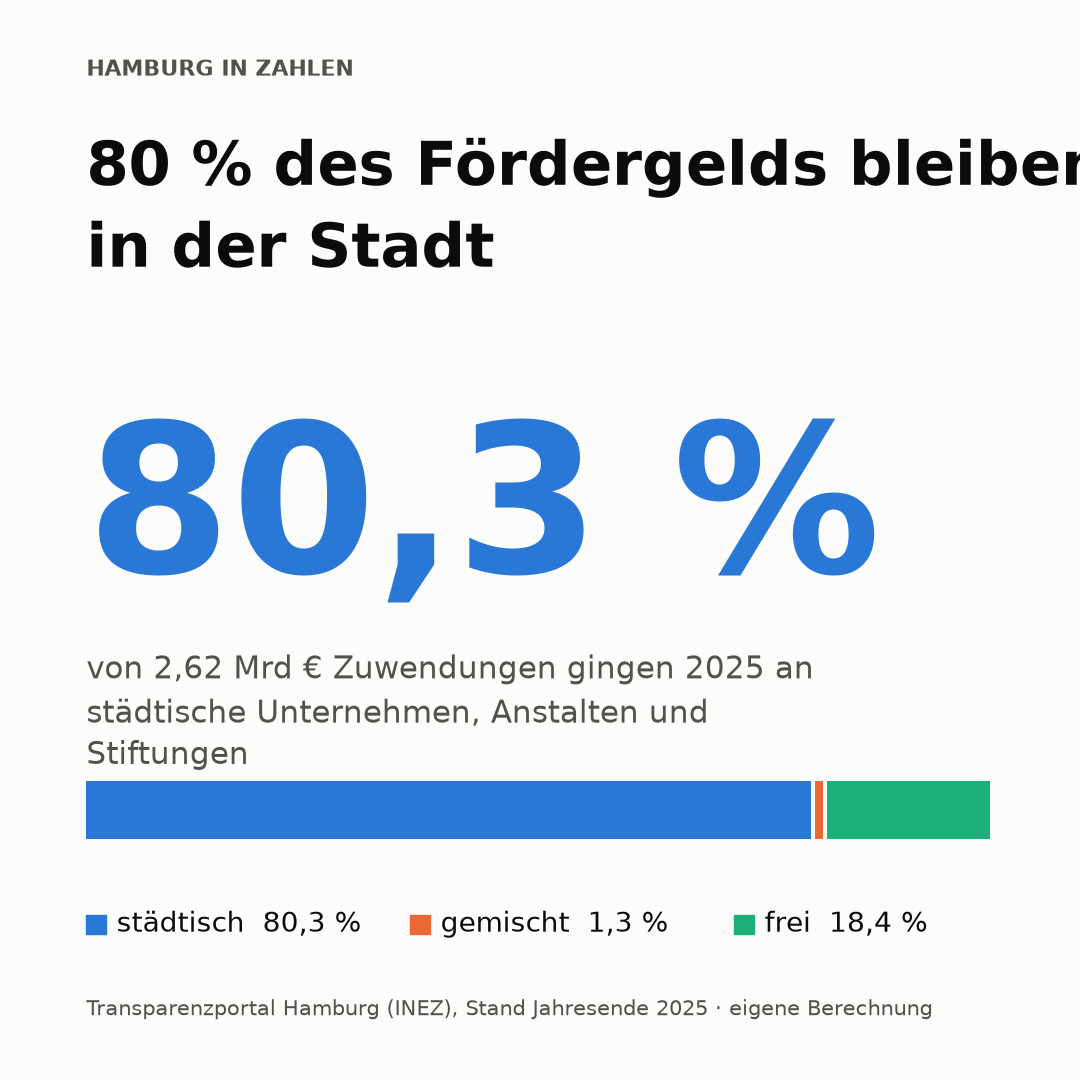
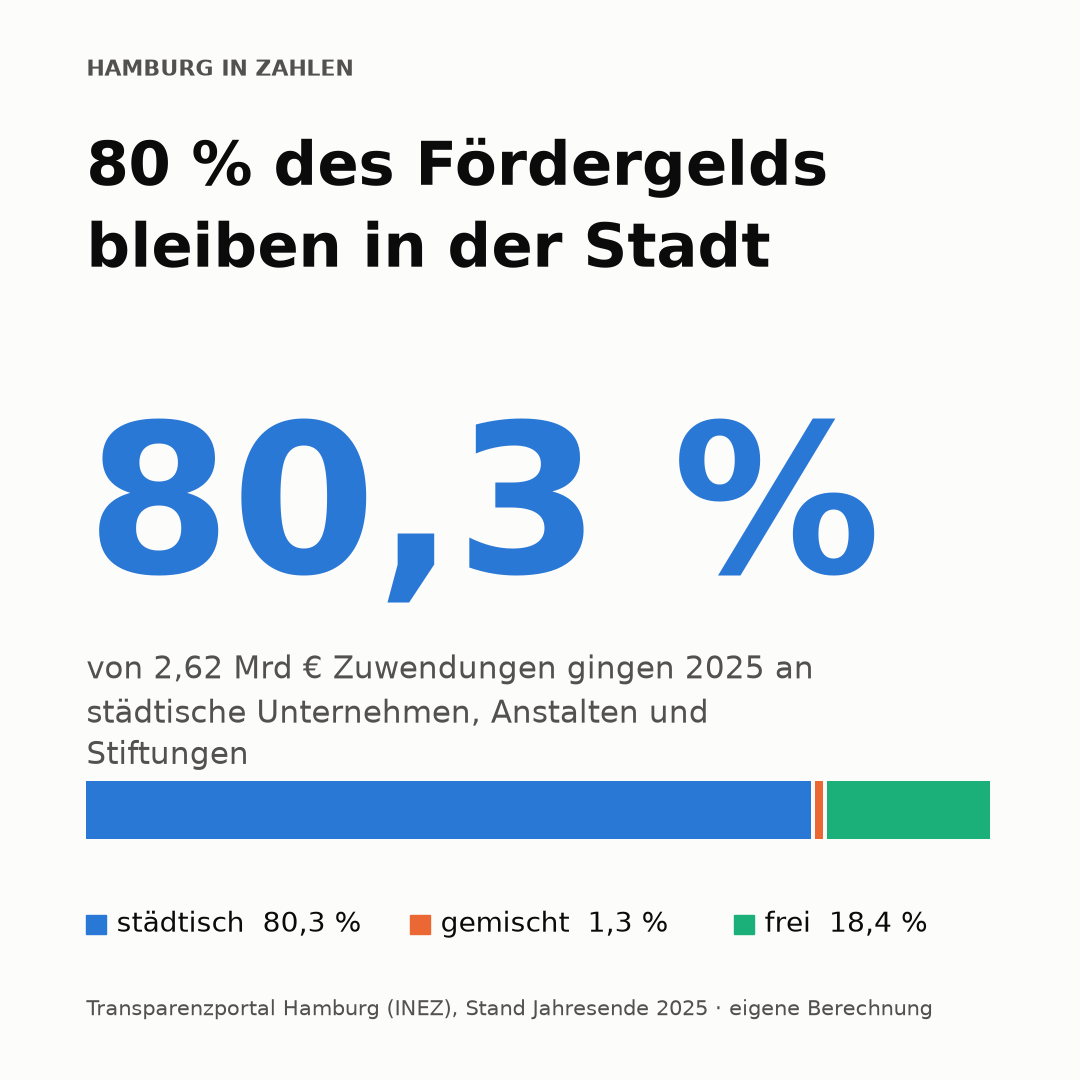
Kachel

Changed region(s): [[0.0917, 0.1833, 0.7333, 0.2444], [0.7944, 0.1222, 1.0, 0.1833]]

diff --git a/src/hamburg_in_zahlen/render.py b/src/hamburg_in_zahlen/render.py
@@ -65,4 +65,61 @@ def rendern(befund, pfad):
 
 
 
+NDR_ROT = "#E1051E"
+NDR_BLAU = "#14235A"
+WEISS = "#ffffff"
+SCHRIFT = "Arial Narrow"
+NDR_SERIE = [NDR_ROT, NDR_BLAU, "#9aa3b8"]
 
+
+def rendern_ndr(befund, pfad, kicker="Hamburg in Zahlen:"):
+    hoehe = 1350
+    fig = plt.figure(figsize=(GROESSE / DPI, hoehe / DPI),
+                     dpi=DPI, facecolor=WEISS)
+
+    kasten = dict(edgecolor="none", pad=9)
+
+    fig.text(0.05, 0.945, kicker, color=WEISS, fontsize=30,
+             fontweight="bold", family=SCHRIFT, va="top",
+             bbox=dict(facecolor=NDR_BLAU, **kasten))
+
+    y = 0.885
+    for zeile in textwrap.wrap(befund.ueberschrift.upper(), 24):
+        fig.text(0.05, y, zeile, color=WEISS, fontsize=46,
+                 fontweight="bold", family=SCHRIFT, va="top",
+                 bbox=dict(facecolor=NDR_ROT, **kasten))
+        y -= 0.068
+
+    fig.text(0.05, 0.58, befund.kernzahl, color=NDR_ROT, fontsize=150,
+             fontweight="bold", family=SCHRIFT, va="center")
+
+    fig.text(0.05, 0.45, textwrap.fill(befund.erlaeuterung, 52),
+             color=NDR_BLAU, fontsize=26, family=SCHRIFT,
+             va="top", linespacing=1.35)
+
+    ax = fig.add_axes([0.05, 0.30, 0.90, 0.035])
+    links = 0.0
+    for i, (label, wert) in enumerate(befund.reihe):
+        ax.barh(0, wert - 0.4, left=links, height=1, color=NDR_SERIE[i])
+        links += wert
+    ax.set_xlim(0, 100)
+    ax.axis("off")
+
+    for i, (label, wert) in enumerate(befund.reihe):
+        x = 0.05 + i * 0.31
+        fig.add_artist(Rectangle((x, 0.248), 0.016, 0.013,
+                                 color=NDR_SERIE[i]))
+        fig.text(x + 0.025, 0.254, f"{label}  {prozent(wert)}",
+                 color=NDR_BLAU, fontsize=22, family=SCHRIFT,
+                 fontweight="bold", va="center")
+
+    fig.text(0.05, 0.115, befund.quelle, color=NDR_BLAU,
+             fontsize=17, family=SCHRIFT)
+
+    fig.add_artist(Rectangle((0.78, 0.04), 0.17, 0.085, color=NDR_ROT))
+    fig.text(0.865, 0.082, "NDR HH", color=WEISS, fontsize=34,
+             fontweight="bold", family=SCHRIFT, ha="center", va="center")
+
+    fig.savefig(pfad, dpi=DPI, facecolor=WEISS)
+    plt.close(fig)
+    return pfad

diff --git a/src/hamburg_in_zahlen/rendercopy.py b/src/hamburg_in_zahlen/rendercopy.py
@@ -1,0 +1,68 @@
+import textwrap
+from dataclasses import dataclass
+import matplotlib.pyplot as plt
+from matplotlib.patches import Rectangle
+
+
+@dataclass
+class Befund:
+    ueberschrift: str
+    kernzahl: str
+    erlaeuterung: str
+    reihe: list
+    quelle: str
+
+
+GROESSE = 1080
+DPI = 100
+GRUND = "#fcfcfb"
+TEXT = "#0b0b0b"
+TEXT_LEISE = "#52514e"
+SERIE = ["#2a78d6", "#eb6834", "#1baf7a"]
+
+def prozent(wert):
+    return f"{wert:.1f}".replace(".", ",") + " %"
+
+
+def rendern(befund, pfad):
+    fig = plt.figure(figsize=(GROESSE / DPI, GROESSE / DPI),
+                      dpi=DPI, facecolor=GRUND)
+
+    fig.text(0.08, 0.93, "HAMBURG IN ZAHLEN",
+              color=TEXT_LEISE, fontsize=16, fontweight="bold")
+
+    fig.text(0.08, 0.88, textwrap.fill(befund.ueberschrift, 22),
+              color=TEXT, fontsize=44, fontweight="bold",
+              va="top", linespacing=1.25)
+
+    fig.text(0.08, 0.52, befund.kernzahl, color=SERIE[0],
+              fontsize=150, fontweight="bold", va="center")
+
+    fig.text(0.08, 0.40, textwrap.fill(befund.erlaeuterung, 46),
+              color=TEXT_LEISE, fontsize=22, va="top", linespacing=1.4)
+
+
+
+    ax = fig.add_axes([0.08, 0.22, 0.84, 0.06])
+    links = 0.0
+    for i, (label, wert) in enumerate(befund.reihe):
+        ax.barh(0, wert - 0.4, left=links, height=1, color=SERIE[i])
+        links += wert
+    ax.set_xlim(0, 100)
+    ax.axis("off")
+
+    for i, (label, wert) in enumerate(befund.reihe):
+        x = 0.08 + i * 0.30
+        fig.add_artist(Rectangle((x, 0.135), 0.018, 0.018, color=SERIE[i]))
+        fig.text(x + 0.028, 0.144, f"{label}  {prozent(wert)}",
+                 color=TEXT, fontsize=20, va="center")
+
+    fig.text(0.08, 0.06, befund.quelle, color=TEXT_LEISE, fontsize=15)
+
+    fig.savefig(pfad, dpi=DPI, facecolor=GRUND)
+    plt.close(fig)
+    return pfad
+
+
+
+

diff --git a/src/hamburg_in_zahlen/rendercopy_NDR.py b/src/hamburg_in_zahlen/rendercopy_NDR.py
@@ -1,0 +1,68 @@
+import textwrap
+from dataclasses import dataclass
+import matplotlib.pyplot as plt
+from matplotlib.patches import Rectangle
+
+
+@dataclass
+class Befund:
+    ueberschrift: str
+    kernzahl: str
+    erlaeuterung: str
+    reihe: list
+    quelle: str
+
+
+GROESSE = 1080
+DPI = 100
+GRUND = "#fcfcfb"
+TEXT = "#0b0b0b"
+TEXT_LEISE = "#52514e"
+SERIE = ["#2a78d6", "#eb6834", "#1baf7a"]
+
+def prozent(wert):
+    return f"{wert:.1f}".replace(".", ",") + " %"
+
+
+def rendern(befund, pfad):
+    fig = plt.figure(figsize=(GROESSE / DPI, GROESSE / DPI),
+                      dpi=DPI, facecolor=GRUND)
+
+    fig.text(0.08, 0.93, "HAMBURG IN ZAHLEN",
+              color=TEXT_LEISE, fontsize=16, fontweight="bold")
+
+    fig.text(0.08, 0.88, textwrap.fill(befund.ueberschrift, 22),
+              color=TEXT, fontsize=44, fontweight="bold",
+              va="top", linespacing=1.25)
+
+    fig.text(0.08, 0.52, befund.kernzahl, color=SERIE[0],
+              fontsize=150, fontweight="bold", va="center")
+
+    fig.text(0.08, 0.40, textwrap.fill(befund.erlaeuterung, 46),
+              color=TEXT_LEISE, fontsize=22, va="top", linespacing=1.4)
+
+
+
+    ax = fig.add_axes([0.08, 0.22, 0.84, 0.06])
+    links = 0.0
+    for i, (label, wert) in enumerate(befund.reihe):
+        ax.barh(0, wert - 0.4, left=links, height=1, color=SERIE[i])
+        links += wert
+    ax.set_xlim(0, 100)
+    ax.axis("off")
+
+    for i, (label, wert) in enumerate(befund.reihe):
+        x = 0.08 + i * 0.30
+        fig.add_artist(Rectangle((x, 0.135), 0.018, 0.018, color=SERIE[i]))
+        fig.text(x + 0.028, 0.144, f"{label}  {prozent(wert)}",
+                 color=TEXT, fontsize=20, va="center")
+
+    fig.text(0.08, 0.06, befund.quelle, color=TEXT_LEISE, fontsize=15)
+
+    fig.savefig(pfad, dpi=DPI, facecolor=GRUND)
+    plt.close(fig)
+    return pfad
+
+
+
+
